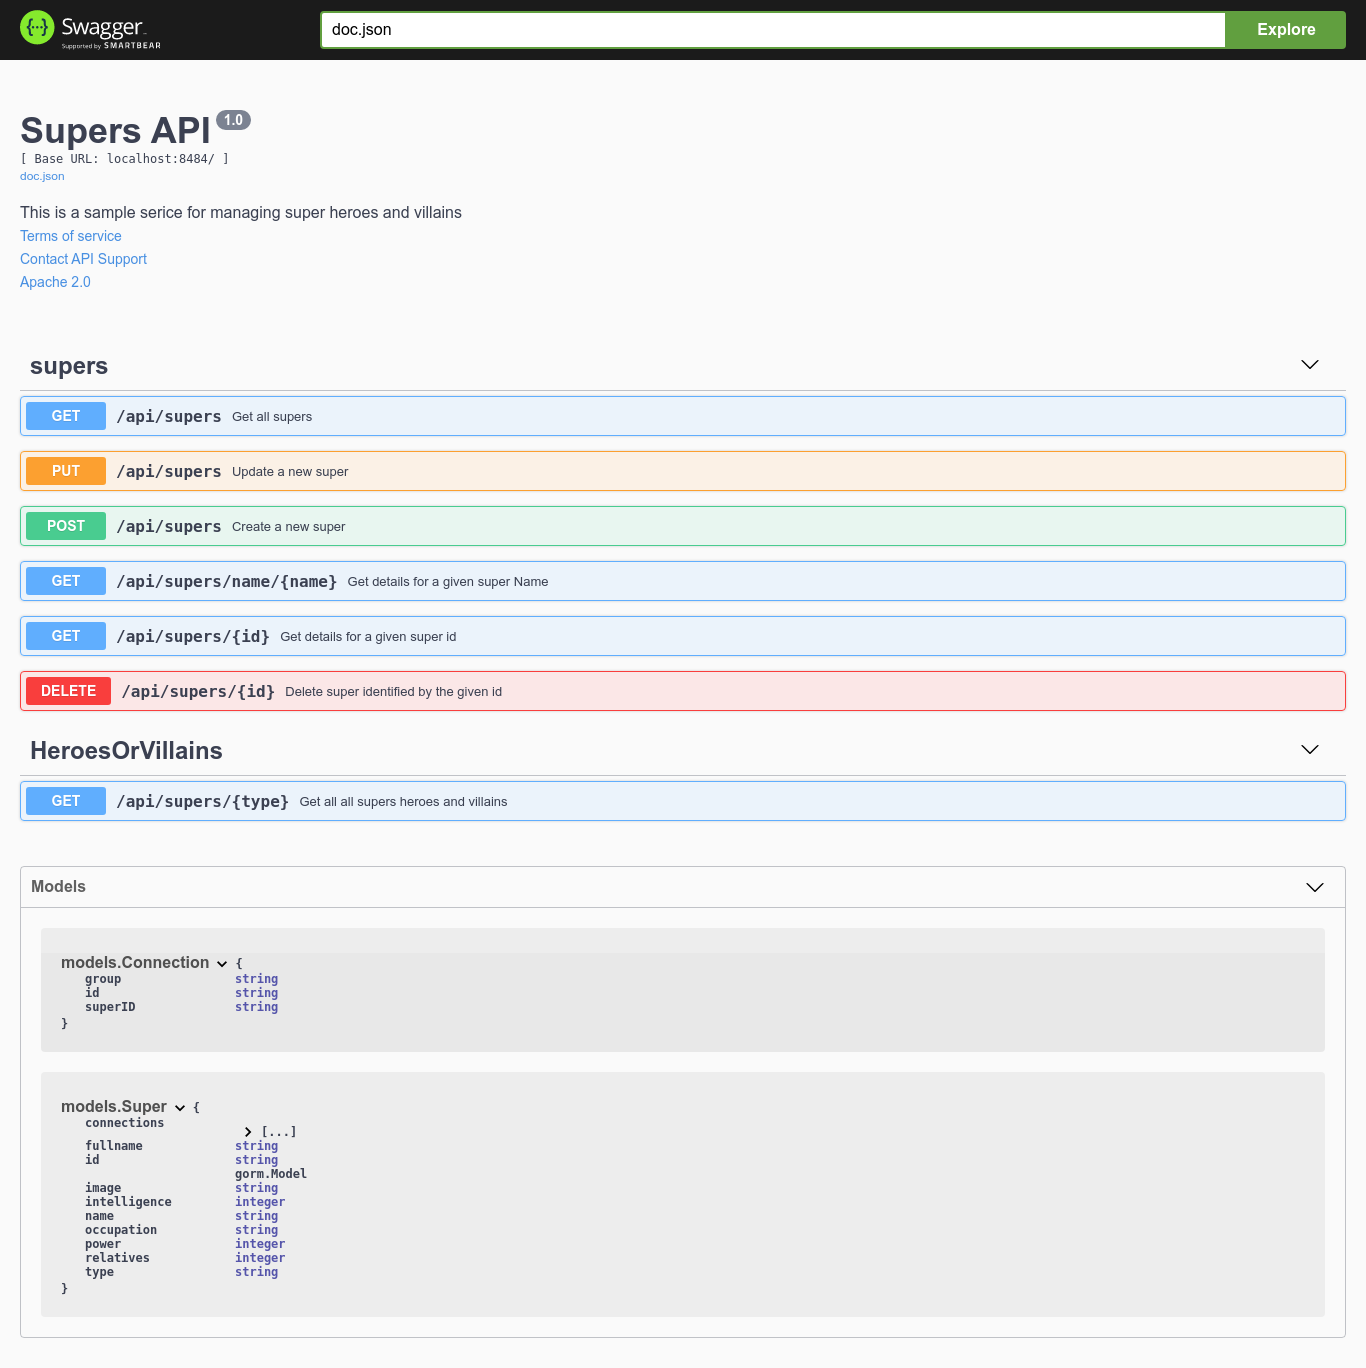
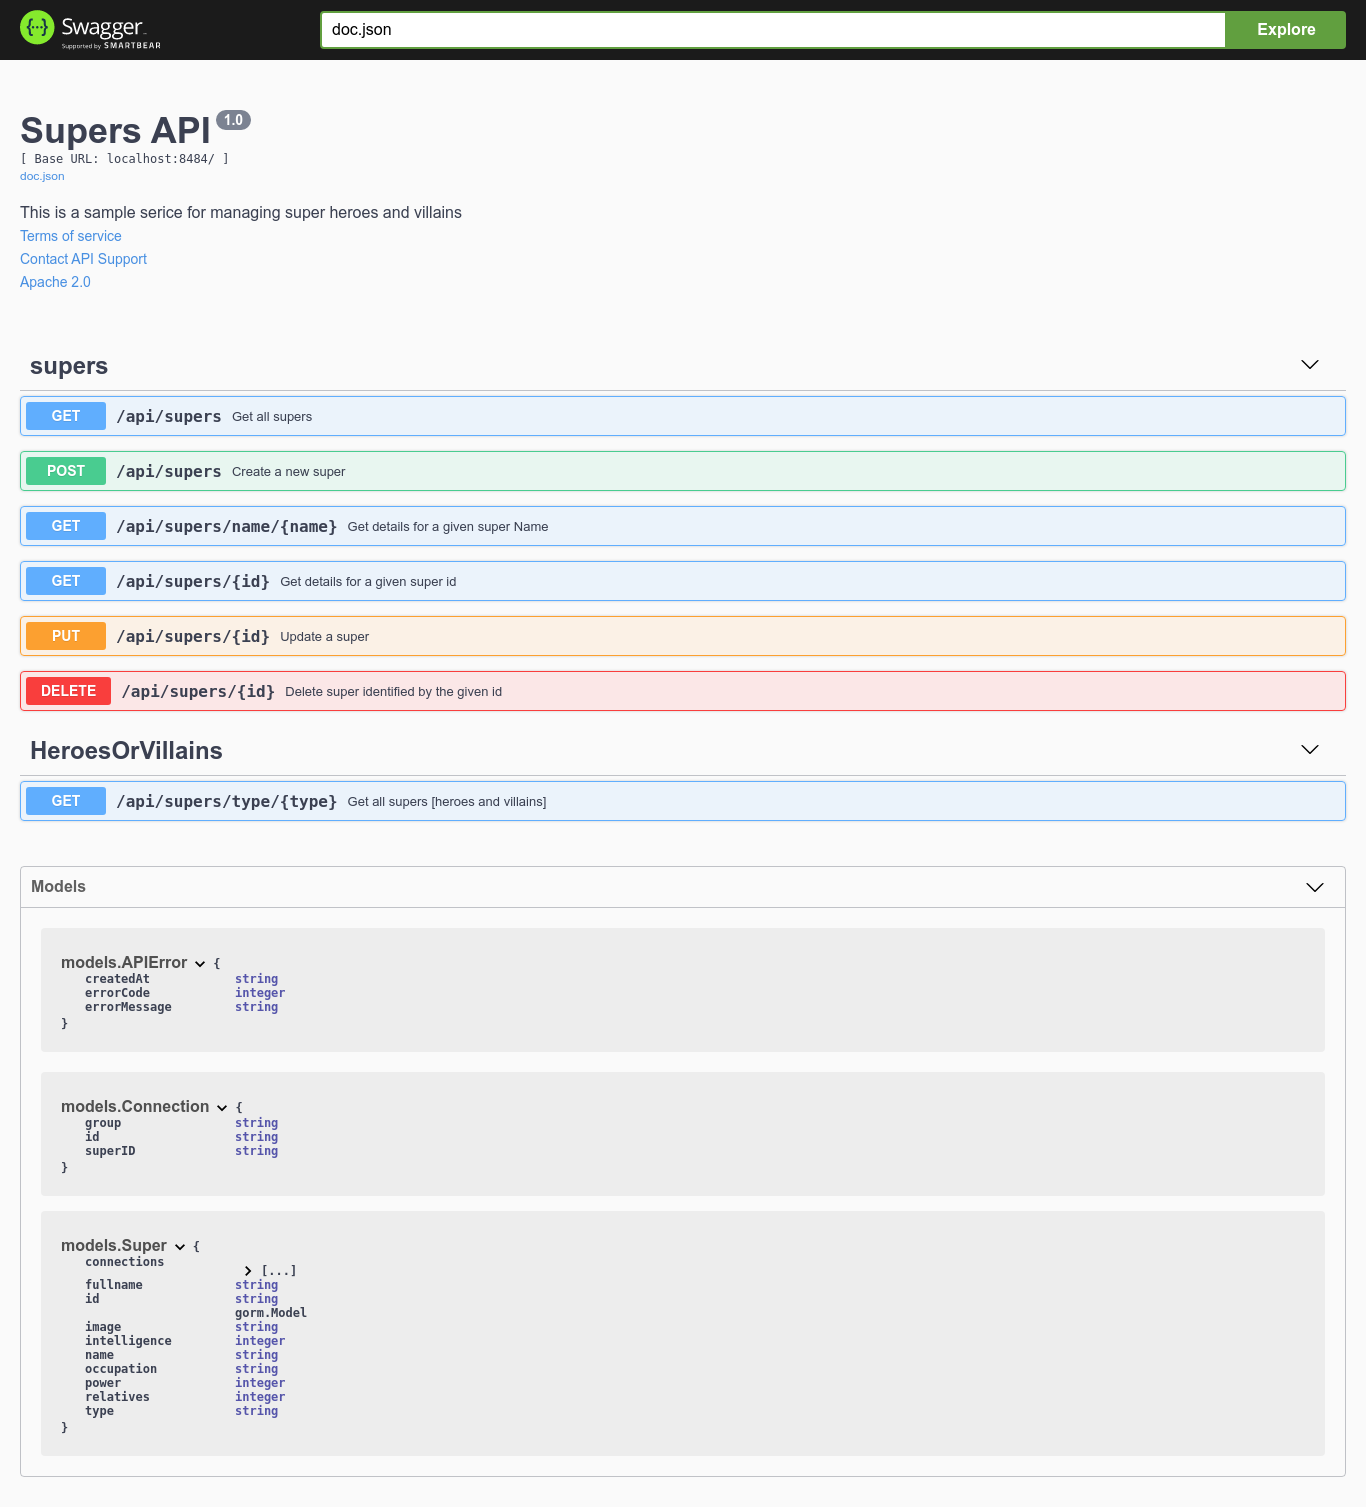
prepare test

diff --git a/models/super.go b/models/super.go
@@ -1,6 +1,7 @@
 package models
 
 import (
+	"fmt"
 	u "levpay/utils"
 	"time"
 
@@ -90,29 +91,32 @@ func (super *Super) CreateSuper() (*Super, error) {
 // @Produce  json
 // @Param id path string true "ID of the super to be update"
 // @Param Super body Super true  "this is a test Super"
-// @Success 200 {object} Super
-// @Success 202 {object} Super
+// @Success 204 {string} string "No Content"
 // @Failure 400 {object} APIError "We need ID!!"
 // @Failure 404 {object} APIError "Unable to register"
 // @Router /api/supers/{id} [put]
 func (super *Super) UpdateSuper(uid string) (*Super, error) {
-	db = GetDB().Debug().Model(&Super{}).Where("id = ?", uid).Take(&Super{}).UpdateColumns(
+
+	fmt.Println(super.Connection)
+
+	db = GetDB().Debug().Preload("Connection").Model(&Super{}).Where("id = ?", uid).Take(&Super{}).UpdateColumns(
 		map[string]interface{}{
-			"Name":         super.Name,
-			"FullName":     super.FullName,
-			"Intelligence": super.Intelligence,
-			"Power":        super.Power,
-			"Occupation":   super.Occupation,
-			"Image":        super.Image,
-			"Relatives":    super.Relatives,
-			"Type":         super.Type,
+			"name":         super.Name,
+			"fullName":     super.FullName,
+			"intelligence": super.Intelligence,
+			"power":        super.Power,
+			"occupation":   super.Occupation,
+			"image":        super.Image,
+			"relatives":    super.Relatives,
+			"type":         super.Type,
+			"connections":  super.Connection,
 		},
 	)
 	if db.Error != nil {
 		return &Super{}, db.Error
 	}
 	// This is the display the updated user
-	err := db.Debug().Preload("Connection").Model(&Super{}).Where("id = ?", uid).Take(&super).Error
+	err := GetDB().Debug().Preload("Connection").Model(&Super{}).Where("id = ?", uid).Take(&super).Error
 	if err != nil {
 		return &Super{}, err
 	}

diff --git a/docs/docs.go b/docs/docs.go
@@ -1,6 +1,6 @@
 // GENERATED BY THE COMMAND ABOVE; DO NOT EDIT
 // This file was generated by swaggo/swag at
-// 2020-04-13 07:54:08.925688116 -0400 -04 m=+0.039994717
+// 2020-04-13 22:17:38.72760223 -0400 -04 m=+0.037184378
 
 package docs
 
@@ -274,16 +274,10 @@ var doc = `{
                     }
                 ],
                 "responses": {
-                    "200": {
-                        "description": "OK",
+                    "204": {
+                        "description": "No Content",
                         "schema": {
-                            "$ref": "#/definitions/models.Super"
-                        }
-                    },
-                    "202": {
-                        "description": "Accepted",
-                        "schema": {
-                            "$ref": "#/definitions/models.Super"
+                            "type": "string"
                         }
                     },
                     "400": {

diff --git a/controllers/supersController.go b/controllers/supersController.go
@@ -123,13 +123,15 @@ func UpdateSuper(w http.ResponseWriter, r *http.Request) {
 	vars := mux.Vars(r)
 	uid := vars["id"]
 	super := &models.Super{}
-	err := json.NewDecoder(r.Body).Decode(super)
+	reqBody, _ := ioutil.ReadAll(r.Body)
+	err := json.Unmarshal(reqBody, &super)
 	if err != nil {
-		u.ERROR(w, http.StatusBadRequest, err)
+		u.Respond(w, http.StatusBadRequest, u.Message(false, err.Error()))
 		return
 	}
 
 	data, err := super.UpdateSuper(uid)
+
 	if err != nil {
 		u.ERROR(w, http.StatusBadRequest, err)
 		return
@@ -137,6 +139,7 @@ func UpdateSuper(w http.ResponseWriter, r *http.Request) {
 
 	if data != nil {
 		resp := u.Message(true, "success")
+		resp["data"] = data
 		u.Respond(w, http.StatusNoContent, resp)
 	} else {
 		u.ERROR(w, http.StatusBadRequest, err)
